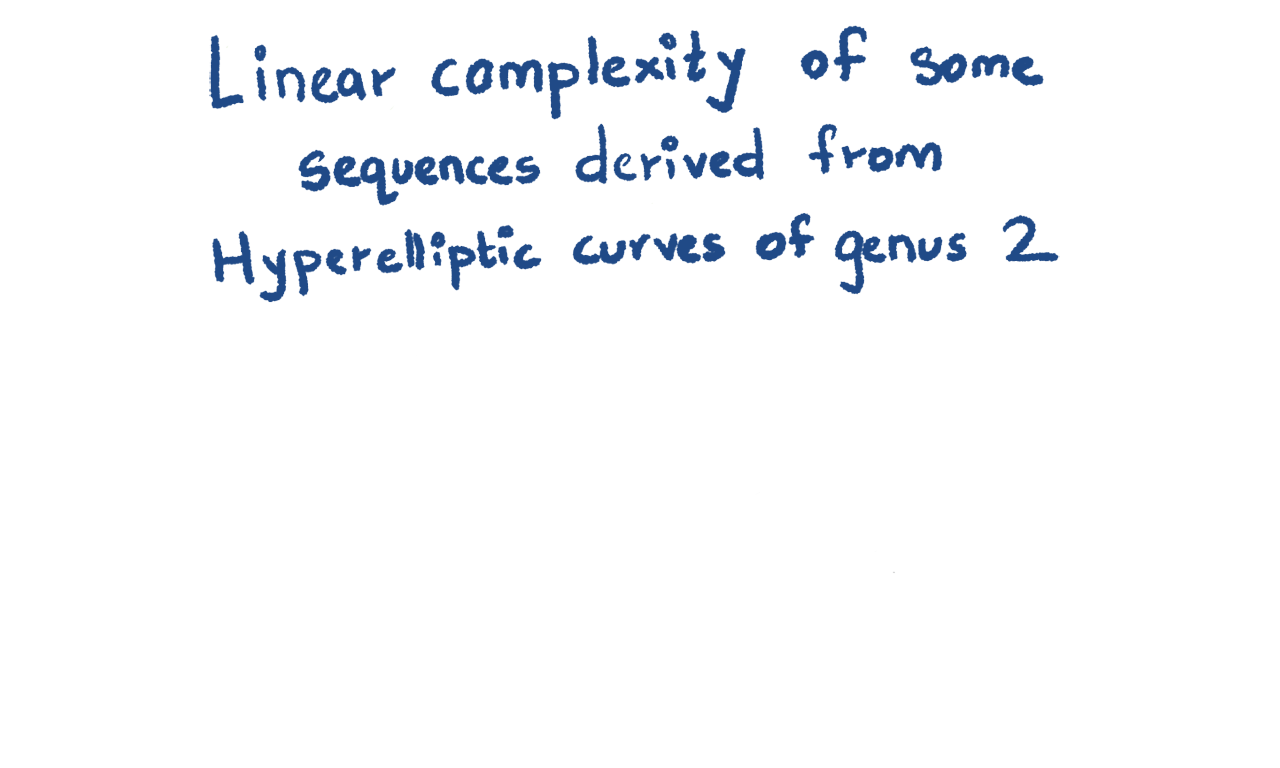
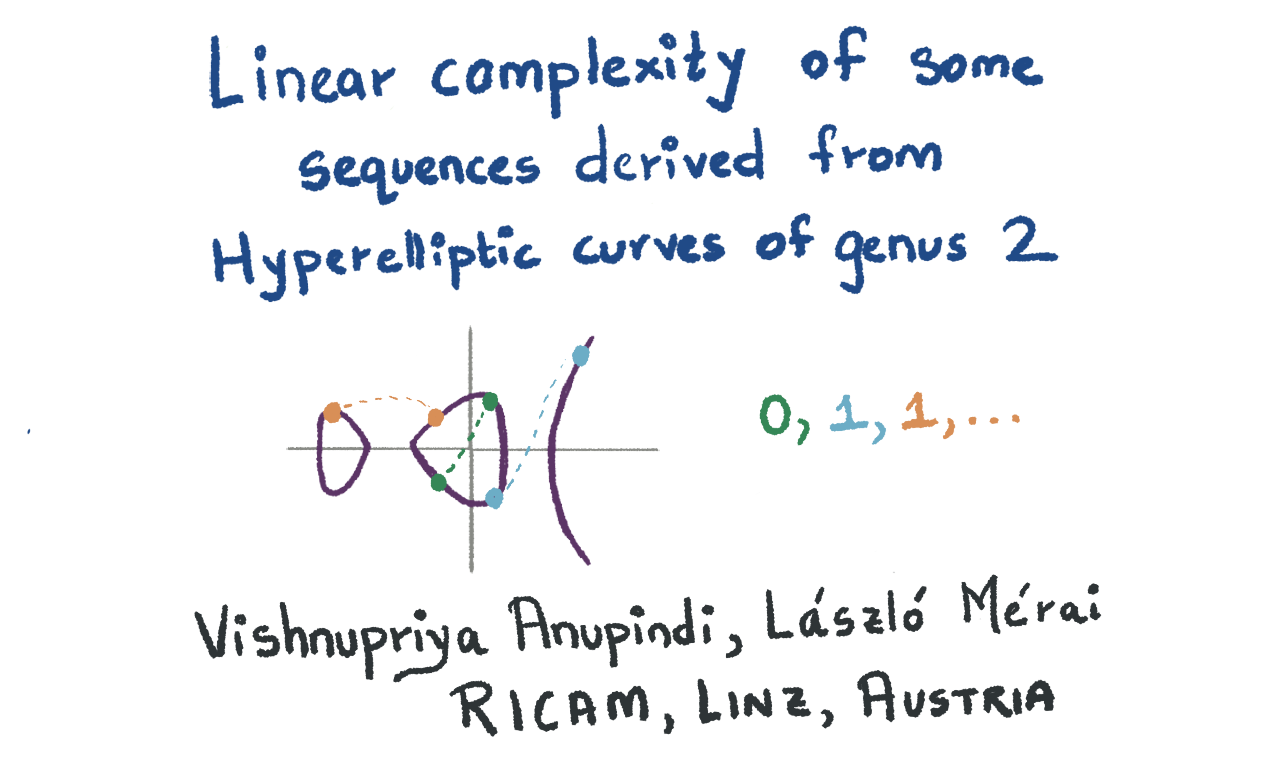
added example

diff --git a/Anupindi_Merai_CECC_2021/index.html b/Anupindi_Merai_CECC_2021/index.html
@@ -24,14 +24,6 @@
 						<img data-src="images/000_0000.png"/>
 						<br/><br/><br/>
 					</section>
-					<section>
-						<img data-src="images/000_0001.png"/>
-						<br/><br/><br/>
-					</section>
-					<section>
-						<img data-src="images/000_0002.png"/>
-						<br/><br/><br/>
-					</section>
 				</section>
 				<section data-transition="slide">
 					<section>
@@ -229,6 +221,28 @@
 				</section>
 				<section data-transition="slide">
 					<section>
+						<img data-src="images/007_1_0000.png"/>
+						<br/><br/><br/>
+					</section>
+					<section>
+						<img data-src="images/007_1_0001.png"/>
+						<br/><br/><br/>
+					</section>
+					<section>
+						<img data-src="images/007_1_0002.png"/>
+						<br/><br/><br/>
+					</section>
+					<section>
+						<img data-src="images/007_1_0003.png"/>
+						<br/><br/><br/>
+					</section>
+					<section>
+						<img data-src="images/007_1_0004.png"/>
+						<br/><br/><br/>
+					</section>
+				</section>
+				<section data-transition="slide">
+					<section>
 						<img data-src="images/008_0000.png"/>
 						<br/><br/><br/>
 					</section>
@@ -366,10 +380,6 @@
 				<section data-transition="slide">
 					<section>
 						<img data-src="images/012_0000.png"/>
-						<br/><br/><br/>
-					</section>
-					<section>
-						<img data-src="images/012_0001.png"/>
 						<br/><br/><br/>
 					</section>
 				</section>
